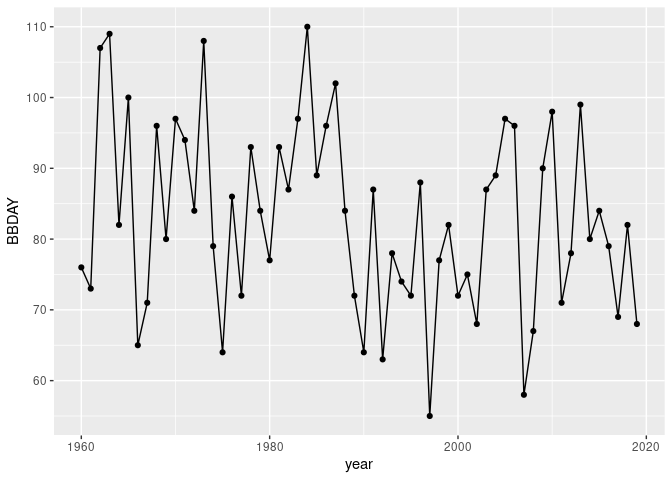
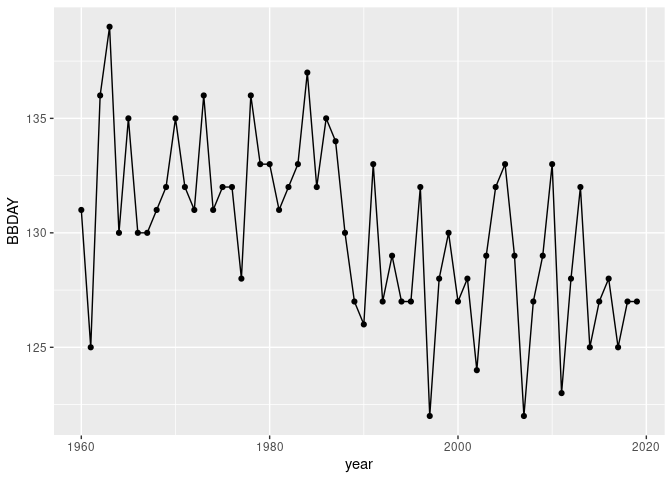
update uniforc figure

diff --git a/README.md b/README.md
@@ -1,17 +1,15 @@
 PMR
 ================
 
-General description
--------------------
+## General description
 
 functions to simulate budburst with R, translation of the PMP plateforme
 (Chuine et al 2013)
 
-Data information
-----------------
+## Data information
 
 data used for the illustration are coming from Mt-Ventoux (contact:
-<a href="mailto:hendrik.davi@inrae.fr" class="email">hendrik.davi@inrae.fr</a>)
+<hendrik.davi@inrae.fr>)
 
 ### Climate data
 
@@ -23,21 +21,20 @@ data along elevation…
 
 leaf budburst from Mt Ventoux
 
-Model information
------------------
+## Model information
 
 ### Climate data format
 
--   `plot`: 1 plot for each use of the function. If you have many more
+  - `plot`: 1 plot for each use of the function. If you have many more
     plots use a loop
--   `year`: numbers of years. Not that the function need at least two
-    year to run, because it use bot climate of the previous *n* − 1 and
-    current year *n* to simulate leaf budburst of the year *n*.
--   `DOY`: day of the year, in the following format 1 to X, where if you
+  - `year`: numbers of years. Not that the function need at least two
+    year to run, because it use bot climate of the previous \(n-1\) and
+    current year \(n\) to simulate leaf budburst of the year \(n\).
+  - `DOY`: day of the year, in the following format 1 to X, where if you
     have for example two years, X should go to 730 days. The current
     function can not work with DOY going to 365 days only. \*\*\* works
     also with basic DOY from 1 to 365\*\*\*
--   `meanTemp`: mean temperature for each days in T°C. For each function
+  - `meanTemp`: mean temperature for each days in T°C. For each function
     you need to specify date of the origin of your climate file.
 
 ### Phenological models
@@ -55,19 +52,18 @@ submodel. More details are provided in Chuine (2000) and in SI from
 Gauzere et al (2020).
 
 Parameters are in the following order, for example if it is a unimodal
-submodel (here example with Abies parameters) : *t* ; *t*0 ;
-*F*<sub>*c**r**i**t*</sub> ; *T*50 ; *d**T* ; *C*<sub>*c**r**i**t*</sub>
-; *a* ; *b* ; *c* . The last parameters are parameters for the sigmoid
-function of rate of chilling.
-`parametersAbies = c(-67, 9, 15.2, 0.24, 144.6, 1.61, -27.1, -4.95)`
+submodel (here example with Abies parameters) : \(t\) ; \(t0\) ;
+\(F_{crit}\) ; \(T50\) ; \(dT\) ; \(C_{crit}\) ; \(a\) ; \(b\) ; \(c\) .
+The last parameters are parameters for the sigmoid function of rate of
+chilling. `parametersAbies = c(-67, 9, 15.2, 0.24, 144.6, 1.61, -27.1,
+-4.95)`
 
 Parameters for threshold option, for example here for Fagus are in the
-following order: *t*0 ; *F*<sub>*c**r**i**t*</sub> ; *T*50 ; *d**T* ;
-*C*<sub>*c**r**i**t*</sub> ; *T*<sub>*b**a**s**e*</sub> . In this
-submodel you need to specify a base temperature.
-`parametersFagus = c(-62, 37.3, 13, 0.08, 73.7, 13)`
+following order: \(t0\) ; \(F_{crit}\) ; \(T50\) ; \(dT\) ; \(C_{crit}\)
+; \(T_{base}\) . In this submodel you need to specify a base
+temperature. `parametersFagus = c(-62, 37.3, 13, 0.08, 73.7, 13)`
 
-We first test here unichill model for
+We first test here unichill model for 
 
 ``` r
 #select data for the site of interest (here named DVX5)
@@ -85,7 +81,7 @@ phenoFagusDvx5 <-   Unichill_Chuine(parametersFagus, dataDvx5, submodelFagus) %>
   mutate(species = "Fagus", site = "DVX5")
 ```
 
-Then we could also test for with the same previous climate (DVX5) and
+Then we could also test for  with the same previous climate (DVX5) and
 same climate origin.
 
 ``` r
@@ -109,16 +105,16 @@ simulate for the two species.
 
 The uniforc model is a simple model where temperature are accumlated the
 same year of leaf budburst. It has four parameters, already define
-previously: *t*0 ; *F*<sub>*c**r**i**t*</sub> ; *T*50 ; *d**T* . Here,
-*t*0 is the starting date of ecodormancy and not endodormancy as in
-unichill model. Parameters defined here came from Gauzere et al (2017)
+previously: \(t0\) ; \(F_{crit}\) ; \(T50\) ; \(dT\) . Here, \(t0\) is
+the starting date of ecodormancy and not endodormancy as in unichill
+model. Parameters defined here came from Gauzere et al (2017)
 
 ``` r
 #select data for the site of interest (here named DVX5)
 dataDvx5= VtxClimate %>% filter(plot == "DVX5")
 
 #species parameter here for Fagus sylvatica
-parametersFagusUniforc = c(13, 37.3, 0.06, 12.41)
+parametersFagusUniforc = c(13, 41.3, 12.41, 0.06)
 #order : t0, Fcrit, T50, dT
 #Run unichill model in plot DVX5 for fagus and then add plot and species name 
 phenoFagusDvx5Unif <-   Uniforc_Chuine(parametersFagusUniforc, dataDvx5) %>% 
@@ -127,22 +123,21 @@ phenoFagusDvx5Unif <-   Uniforc_Chuine(parametersFagusUniforc, dataDvx5) %>%
 
 ![](README_files/figure-gfm/sim%20uniforc-1.png)<!-- -->
 
-References
-----------
+## References
 
--   Chuine, I. 2000. A unified model for budburst of trees. J. Theor.
+  - Chuine, I. 2000. A unified model for budburst of trees. J. Theor.
     Biol. 207: 337– 347.
--   Chuine I., Garcia de Cortazar Atauri I., Kramer K. & Hänninen H.
+  - Chuine I., Garcia de Cortazar Atauri I., Kramer K. & Hänninen H.
     (2013) Plant Development Models. In: Phenology: An Integrative
     Environmental Science (ed. Schwarz MD). Springer, Dordrecht,
     Netherlands, pp. 275-293.
--   Gauzere J, Teuf B, Davi H, Chevin L.‐M., Caignard T, Delzon S, Ronce
+  - Gauzere J, Teuf B, Davi H, Chevin L.‐M., Caignard T, Delzon S, Ronce
     O, Chuine I. 2020. Where is the optimum? Predicting the variation of
     selection along climatic gradients and the adaptive value of
     plasticity. A case study on tree phenology. Evolution Letters 4:
     109– 123.
--   J. Gauzere, S. Delzon, H. Davi, M. Bonhomme, A. Garcia de
-    Cortazar, I. Chuine. Integrating interactive effects of chilling and
+  - J. Gauzere, S. Delzon, H. Davi, M. Bonhomme, A. Garcia de Cortazar,
+    I. Chuine. Integrating interactive effects of chilling and
     photoperiod in phenological process-based models. A case study with
     two European tree species: Fagus sylvatica and Quercus petraea
     Agric. Forest Meteorol., 244 (2017), pp. 9-20
